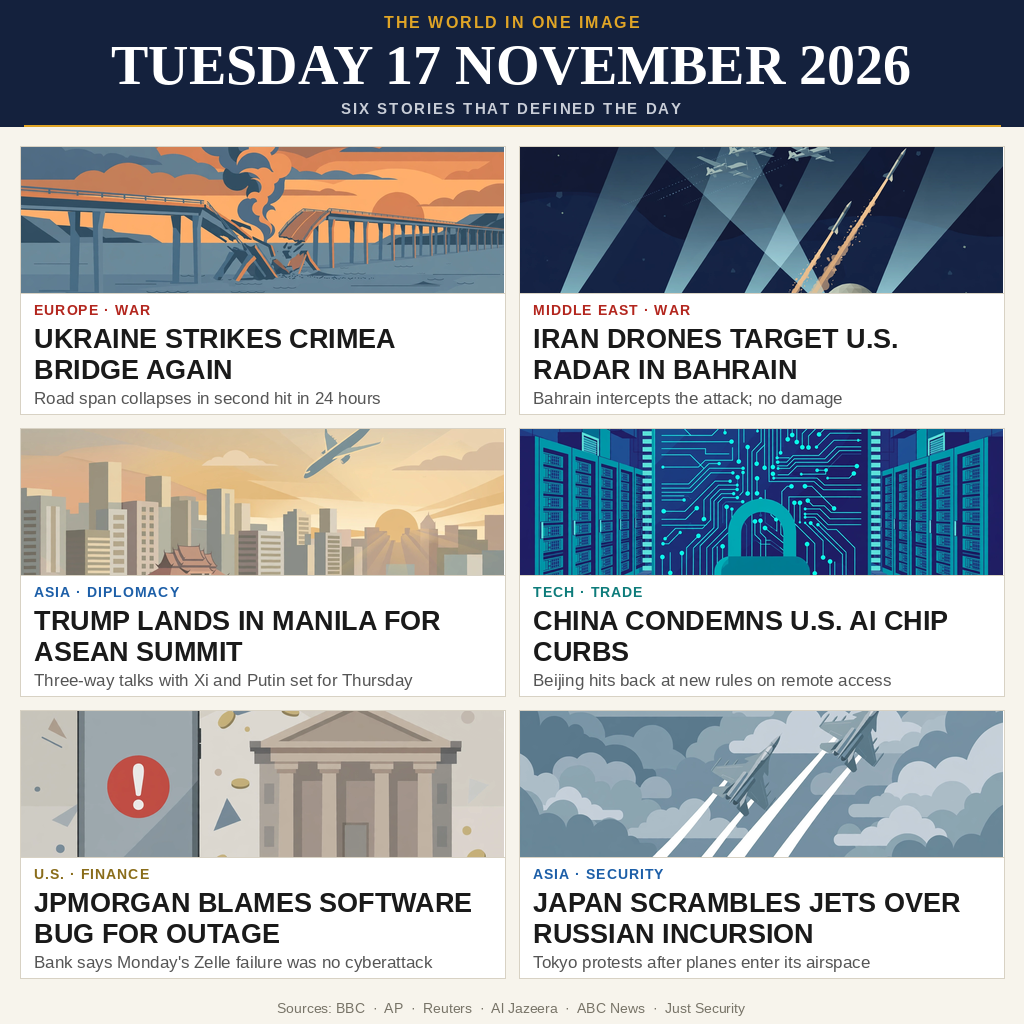
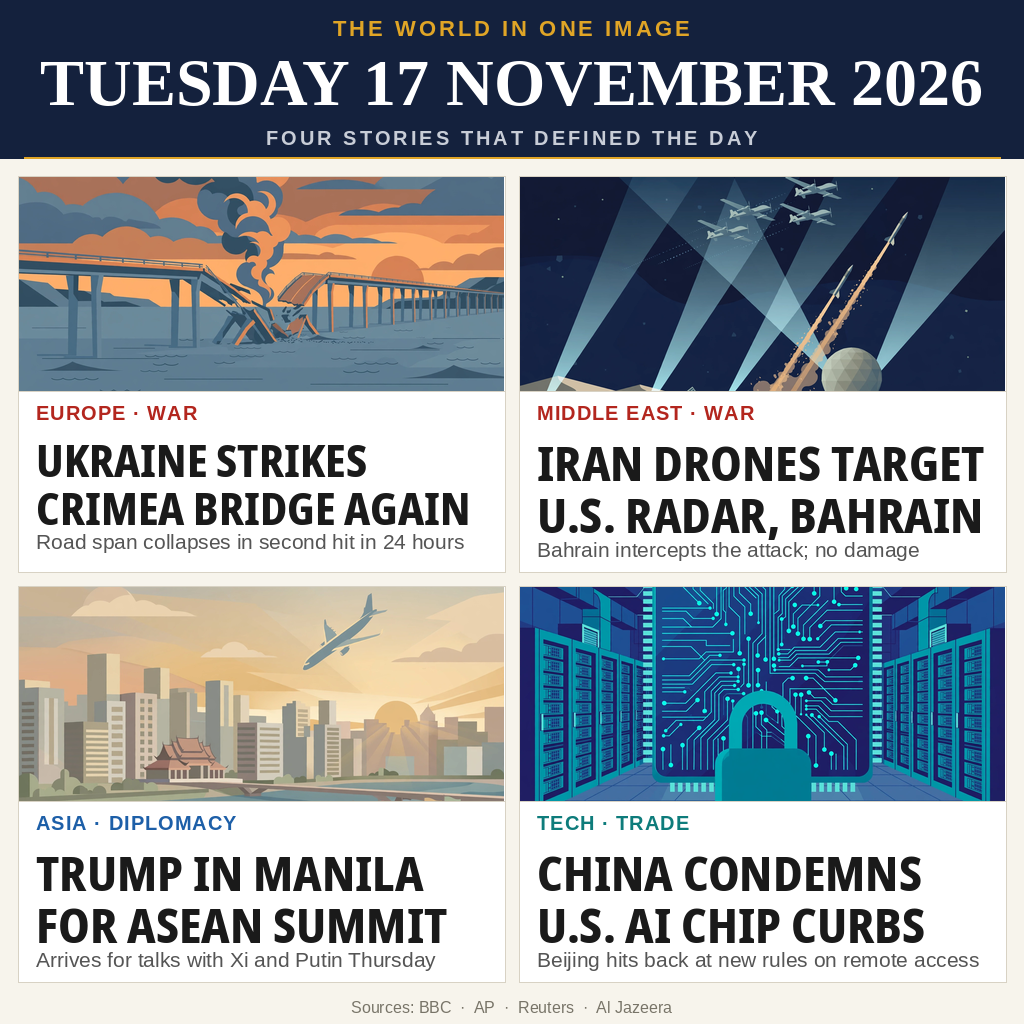
v2: redesign for legibility — 4 large panels, 44-48px headlines, bigger date masthead
v1 (6-panel grid, 27px headlines) scored judge 969,636, rank #1,028/2,062;
headlines shrank to ~8px at 300px and were unreadable. v2 keeps the four
strongest verified 17 Nov 2026 stories (Crimea bridge, Iran drones/Bahrain,
Trump in Manila, China chip curbs), drops JPMorgan outage + Japan jets, and
uses condensed extra-bold headlines at 44-48px (~13px at 300px) with a
66px date masthead. Verified: readable at 300px, two runs byte-identical,
527,958 bytes, 1024x1024.

diff --git a/README.md b/README.md
@@ -4,7 +4,9 @@
 [![rank](https://make.fun/badge/news-image-20261117/cffilham-jpg/makefun-news-image-20261117/rank.svg)](https://make.fun/bounty/news-image-20261117/leaderboard?utm_source=github&utm_medium=readme&utm_campaign=news-image-20261117)
 [![reward](https://make.fun/badge/news-image-20261117/cffilham-jpg/makefun-news-image-20261117/reward.svg)](https://make.fun/bounty/news-image-20261117?utm_source=github&utm_medium=readme&utm_campaign=news-image-20261117)
 
-One image summing up the world's news of Tuesday 17 November 2026: an editorial infographic with six illustrated stories — Ukraine's second strike on the Crimea bridge, Iranian drones targeting a U.S. radar in Bahrain, Trump landing in Manila ahead of the Xi–Putin summit, China condemning U.S. AI chip curbs, JPMorgan blaming a software bug for its banking outage, and Japan scrambling jets over a Russian airspace incursion. Every story happened or was first reported on 17 November 2026 (sources: BBC, AP, Reuters, Al Jazeera, ABC News, Just Security).
+One image summing up the world's news of Tuesday 17 November 2026: an editorial infographic with four large illustrated stories, redesigned for legibility — Ukraine's second strike on the Crimea bridge, Iranian drones targeting a U.S. radar in Bahrain, Trump in Manila for the ASEAN summit, and China condemning U.S. AI chip curbs. Every story happened or was first reported on 17 November 2026 (sources: BBC, AP, Reuters, Al Jazeera).
+
+v2 redesign (18 Nov): 4 panels instead of 6, headlines in condensed extra-bold at 44–48px (vs 27px in v1) so they stay readable at ~300px, and a larger date masthead.
 
 ## Run it
 
